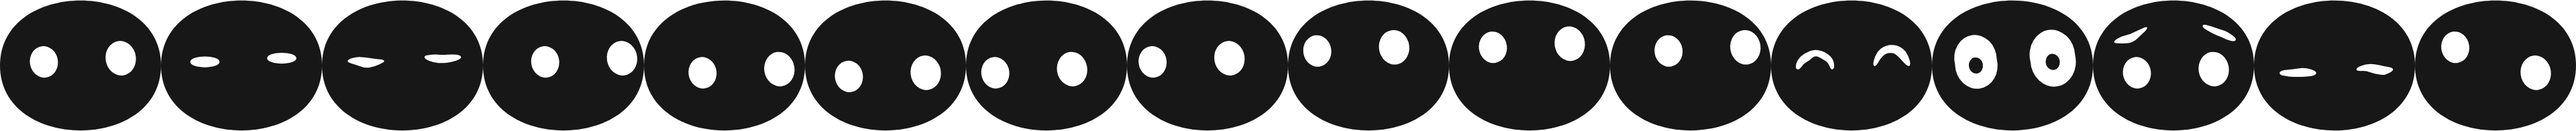
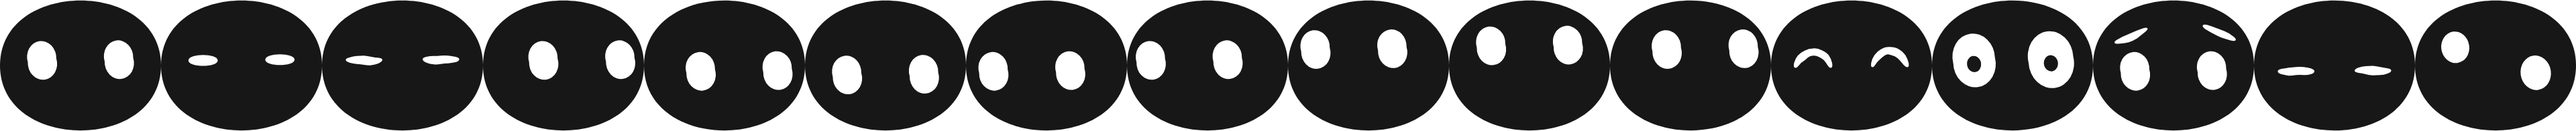
프로도 그림을 다듬음: 펜 떨림 세기를 조절하고 입구 테·발 모양을 새로 그려 표정·먹기 스프라이트를 다시 만들고 소프트 3D 시안을 남김: 캐릭터를 더 깔끔하게 보이게 하려고

diff --git a/apps/room/src/art/duct.ts b/apps/room/src/art/duct.ts
@@ -102,7 +102,7 @@ const wave = (t: number, k: number, seed: number) => Math.sin(2 * Math.PI * k * 
 
 // 펜 하나. 그을 때마다 다음 씨앗을 써서 선마다 다르게, 그러나 언제나 같게 흔들립니다. 파일 종이(ObjectShape)도 같은 펜으로 그려요.
 // step은 선을 따라 점을 찍는 간격이에요. 작게 그리는 종이는 화면 1px보다 촘촘한 점이 보이지 않으니 넓게 찍어요.
-export function makePen(start: number, step = 2.6) {
+export function makePen(start: number, step = 2.6, roughness = 1) {
   let count = start;
   return (d: string, w: number, tone: DuctTone = "ink"): DuctPiece[] =>
     flatten(d).map(({ pts, closed }) => {
@@ -123,8 +123,8 @@ export function makePen(start: number, step = 2.6) {
         const nx = -dy / m;
         const ny = dx / m;
         const t = i / (closed ? n : n - 1);
-        const shift = wave(t, k1, seed) * 0.5;
-        let half = (w / 2) * (1 + wave(t, k2, seed + 11) * 0.26);
+        const shift = wave(t, k1, seed) * 0.5 * roughness;
+        let half = (w / 2) * (1 + wave(t, k2, seed + 11) * 0.26 * roughness);
         if (!closed) half *= Math.min(1, 0.42 + (Math.min(t, 1 - t) * total) / 5);
         L.push([p[0] + nx * (shift + half), p[1] + ny * (shift + half)]);
         R.push([p[0] + nx * (shift - half), p[1] + ny * (shift - half)]);
@@ -136,6 +136,30 @@ export function makePen(start: number, step = 2.6) {
 const oval = ([x, y, rx, ry]: readonly number[]) => `M${x - rx} ${y}C${x - rx} ${y - ry * 1.32} ${x + rx} ${y - ry * 1.32} ${x + rx} ${y}C${x + rx} ${y + ry * 1.32} ${x - rx} ${y + ry * 1.32} ${x - rx} ${y}Z`;
 const poly = (pts: Pt[]) => `M${pts.map((p) => `${f1(p[0])} ${f1(p[1])}`).join("L")}Z`;
 const open = (pts: Pt[]) => `M${pts.map((p) => `${f1(p[0])} ${f1(p[1])}`).join("L")}`;
+
+function collar([x, y, rx, ry]: Spec["head"]): string {
+  const pt = (dx: number, dy: number) => `${f1(x + dx * rx)} ${f1(y + dy * ry)}`;
+  return `M${pt(-1, 0.03)}C${pt(-1, -0.53)} ${pt(-0.53, -1)} ${pt(0.03, -1)}`
+    + `C${pt(0.6, -1)} ${pt(1, -0.58)} ${pt(1, -0.04)}`
+    + `C${pt(1, 0.53)} ${pt(0.54, 1)} ${pt(-0.06, 1)}`
+    + `C${pt(-0.63, 1)} ${pt(-1, 0.59)} ${pt(-1, 0.03)}Z`;
+}
+
+function footAt(x: number): string {
+  return `M${x - 19} 106L${x + 17} 106`
+    + `C${x + 20} 106 ${x + 21} 107 ${x + 22} 109L${x + 23} 111`
+    + `C${x + 24} 113 ${x + 22} 114 ${x + 20} 114L${x - 22} 114`
+    + `C${x - 24} 114 ${x - 26} 113 ${x - 25} 111L${x - 24} 109`
+    + `C${x - 23} 107 ${x - 22} 106 ${x - 19} 106Z`;
+}
+
+// 주름선을 받침 쪽으로 살짝 휘어 관의 둥근 단면을 보여 줘요.
+function ribSeam([lx, ly]: Pt, [rx, ry]: Pt): string {
+  const dx = rx - lx;
+  const dy = ry - ly;
+  const control = (t: number) => `${f1(lx + dx * t + dy * 0.08)} ${f1(ly + dy * t - dx * 0.08)}`;
+  return `M${f1(lx)} ${f1(ly)}C${control(1 / 3)} ${control(2 / 3)} ${f1(rx)} ${f1(ry)}`;
+}
 
 const tilt = (-8 * Math.PI) / 180;
 function dot(x: number, y: number, r: number, tone: DuctTone = "ink"): DuctPiece {
@@ -156,7 +180,8 @@ function tube(spec: Spec) {
     const dy = b[1] - a[1];
     const m = Math.hypot(dx, dy) || 1;
     const swell = spec.bulge ? spec.bulge[1] * Math.exp(-(((i / (out.length - 1) - spec.bulge[0]) / 0.1) ** 2)) : 0;
-    const half = spec.width / 2 + spec.scallop * Math.abs(Math.sin((Math.PI * i) / spec.rib)) + swell;
+    const fold = Math.sin((Math.PI * i) / spec.rib) ** 2;
+    const half = spec.width / 2 + spec.scallop * fold + swell;
     // 꺾이는 안쪽은 굵기보다 반지름이 작으면 선이 되돌아가 엉킵니다. 되돌아가는 점은 앞 점에 붙여 접습니다.
     const unfold = (side: Pt[], point: Pt): Pt => {
       const last = side[side.length - 1];
@@ -180,17 +205,19 @@ function layerColorAt(layers: DuctLayer[], at: number): string | null {
 const armEnd = (d: string): Pt => (d.match(/-?\d*\.?\d+/g) ?? []).slice(-2).map(Number) as Pt;
 
 function draw(spec: Spec, { w, layers = [], moving = false, seed = 1, live = false, flow = false }: { w: number; layers?: DuctLayer[]; moving?: boolean; seed?: number; live?: boolean; flow?: boolean }): DuctDrawing["items"] {
-  const pen = makePen(seed);
+  const pen = makePen(seed, 2.2, 0.48);
   const { L, R, body } = tube(spec);
+  const rim = collar(spec.head);
+  const shell = [{ d: rim, tone: "white" as const }, ...pen(rim, w * 0.9)];
   const items: DuctDrawing["items"] = [];
   // 팔은 관 뒤에서 나오고, 끝에 작은 손을 답니다.
   spec.arms.forEach((arm, at) => {
     const [x, y] = armEnd(arm);
-    const pieces = [...pen(arm, w), dot(x, y, Math.max(2.4, w * 0.8))];
+    const pieces = [...pen(arm, w * 0.78), dot(x, y, Math.max(2.1, w * 0.68))];
     if (live) items.push({ part: at === 0 ? "armL" : "armR", parts: pieces });
     else items.push(...pieces);
   });
-  items.push({ d: spec.foot, tone: "foot" }, ...pen(spec.foot, w));
+  items.push({ d: spec.foot, tone: "foot" }, ...pen(spec.foot, w * 0.83));
   const last = L.length - 1;
   if (moving) {
     // 주름 한 칸씩 부풀어 파일이 관을 지나가는 것처럼 보입니다.
@@ -200,7 +227,7 @@ function draw(spec: Spec, { w, layers = [], moving = false, seed = 1, live = fal
       const right = R.slice(i, end + 1);
       const color = layerColorAt(layers, (i + end) / 2 / last);
       const fill = poly([...left, ...[...right].reverse()]);
-      items.push({ rib, parts: [color && layers.length ? { d: fill, tone: "layer", color } : { d: fill, tone: "white" }, ...pen(open(left), w), ...pen(open(right), w), ...pen(open([L[end], R[end]]), w * 0.62)] });
+      items.push({ rib, parts: [color && layers.length ? { d: fill, tone: "layer", color } : { d: fill, tone: "white" }, ...pen(open(left), w * 0.9), ...pen(open(right), w * 0.9), ...pen(open([L[end], R[end]]), w * 0.55)] });
     }
   } else {
     items.push({ d: body, tone: "white" });
@@ -215,17 +242,17 @@ function draw(spec: Spec, { w, layers = [], moving = false, seed = 1, live = fal
       if (to > from) items.push({ d: poly([...L.slice(from, Math.min(last, to + 1) + 1), ...R.slice(from, Math.min(last, to + 1) + 1).reverse()]), tone: "layer", color, i, n: layers.length });
       from = to;
     });
-    items.push(...pen(body, w));
-    for (let i = spec.rib; i < L.length - 2; i += spec.rib) items.push(...pen(open([L[i], R[i]]), w * 0.62));
+    items.push(...pen(body, w * 0.9));
+    for (let i = spec.rib; i < L.length - 2; i += spec.rib) items.push(...pen(ribSeam(L[i], R[i]), w * 0.55));
   }
   // 살아 있는 그림의 얼굴은 표정 시트가 맡습니다. 머리는 끄덕이고 갸웃하게 한 덩어리로 묶어요.
   if (live) {
-    items.push({ part: "head", parts: [{ d: oval(spec.head), tone: "white" }, ...pen(oval(spec.head), w), { face: spec.inner }] });
+    items.push({ part: "head", parts: [...shell, { face: spec.inner }] });
     for (const tick of spec.ticks ?? []) items.push(...pen(tick, w * 0.8));
     if (spec.paperAt) items.push(paperGroup(spec.paperAt, w, pen));
     return items;
   }
-  items.push({ d: oval(spec.head), tone: "white" }, ...pen(oval(spec.head), w), { d: oval(spec.inner), tone: "ink" });
+  items.push(...shell, { d: oval(spec.inner), tone: "ink" });
   const [a, b] = spec.eyes;
   const r = Math.max(3.4, w) * (spec.eyeScale ?? 1);
   if (spec.face === "happy") {
@@ -262,16 +289,16 @@ const boardBox = `${board.x} ${board.y} ${board.w} ${board.h}`;
 
 // ── 플로팅 창(메뉴 막대 작은 창)의 자세 7가지 ──
 // 2026-11-17: 한쪽으로 휘지 않고 받침 가운데(x 60)에서 위로 곧게 서요(요청: 방향을 띠며 휘는 게 별로라서). 자세는 팔·머리 높이·종이로만 달라요.
-const stand = { line: "M60 108C60 90 60 70 60 50", width: 34, rib: 6, scallop: 2.2, head: [60, 36, 29, 25], inner: [60, 36, 22, 18], eyes: [[50, 35], [71, 34]], foot: "M36 106L82 106L84 114L34 114Z" } as const;
+const stand = { line: "M60 108C60 90 60 70 60 50", width: 34, rib: 6, scallop: 2.2, head: [60, 36, 29, 25], inner: [60, 36, 22, 18], eyes: [[50, 35], [71, 34]], foot: footAt(60) } as const;
 const leftArm = "M46 82C38 82 32 86 29 93";
 const poses: Record<DuctPose, Spec> = {
   idle: { ...stand, head: [...stand.head], inner: [...stand.inner], eyes: [[50, 35], [71, 34]], arms: [leftArm, "M74 80C82 79 89 82 94 89"] },
   watch: { ...stand, head: [...stand.head], inner: [...stand.inner], eyes: [[55, 35], [76, 34]], arms: [leftArm, "M74 80C82 79 89 82 94 89"] },
   offer: { ...stand, head: [...stand.head], inner: [...stand.inner], eyes: [[52, 35], [73, 34]], arms: [leftArm, "M74 80C84 81 94 82 102 80"], paperAt: [112, 78, 10] },
   move: { ...stand, head: [...stand.head], inner: [...stand.inner], eyes: [[50, 34], [71, 33]], arms: [leftArm, "M74 80C86 78 96 72 102 64"], paperAt: [104, 54, -6] },
-  done: { ...stand, line: "M60 108C60 90 60 66 60 44", head: [60, 30, 29, 25], inner: [60, 30, 22, 18], eyes: [[50, 30], [71, 29]], face: "happy", foot: "M36 106L82 106L84 114L34 114Z", ticks: ["M20 14L12 8", "M102 12L110 5"], arms: ["M47 78C36 72 30 62 28 50", "M78 76C90 70 98 60 100 48"] },
+  done: { ...stand, line: "M60 108C60 90 60 66 60 44", head: [60, 30, 29, 25], inner: [60, 30, 22, 18], eyes: [[50, 30], [71, 29]], face: "happy", foot: footAt(60), ticks: ["M20 14L12 8", "M102 12L110 5"], arms: ["M47 78C36 72 30 62 28 50", "M78 76C90 70 98 60 100 48"] },
   rest: { ...stand, line: "M60 108C60 102 60 96 60 90", rib: 3, head: [60, 78, 29, 24], inner: [60, 78, 22, 17], eyes: [[50, 78], [71, 77]], face: "closed", arms: ["M46 100C40 100 34 102 30 107", "M74 100C80 100 86 102 90 107"] },
-  shock: { ...stand, line: "M60 108C60 90 60 66 60 46", head: [60, 32, 27, 23], inner: [60, 32, 20, 16], eyes: [[52, 31], [69, 30]], face: "wide", foot: "M36 106L82 106L84 114L34 114Z", arms: ["M44 76C34 70 26 62 20 62", "M76 78C88 72 98 62 104 50"], ticks: ["M92 18L100 12", "M96 34L106 32"] },
+  shock: { ...stand, line: "M60 108C60 90 60 66 60 46", head: [60, 32, 27, 23], inner: [60, 32, 20, 16], eyes: [[52, 31], [69, 30]], face: "wide", foot: footAt(60), arms: ["M44 76C34 70 26 62 20 62", "M76 78C88 72 98 62 104 50"], ticks: ["M92 18L100 12", "M96 34L106 32"] },
 };
 
 export function drawPose(pose: DuctPose, { px, layers, live, flow }: { px: number; layers?: DuctLayer[]; live?: boolean; flow?: boolean }): DuctDrawing {
@@ -318,9 +345,9 @@ export function drawEatFrame(frame: number, px: number): DuctDrawing {
 }
 
 // ── 표정 시트(art/duct-faces.png)의 프레임. 모든 프로도가 한 장을 같이 씁니다. 몸은 방마다 모양과 색이 달라 코드로 그려요. ──
-const faceEyes: [Pt, Pt] = [[-10, -1], [11, -2]];
+const faceEyes: [Pt, Pt] = [[-10.5, -1.4], [10.5, -1.6]];
 const faceOval = "M-22 0C-22 -23.8 22 -23.8 22 0C22 23.8 -22 23.8 -22 0Z";
-const lookBy = (dx: number, dy: number): DuctPiece[] => faceEyes.map(([x, y], at) => dot(x + dx, y + dy, at ? 4.1 : 3.8, "white"));
+const lookBy = (dx: number, dy: number): DuctPiece[] => faceEyes.map(([x, y]) => dot(x + dx, y + dy, 3.95, "white"));
 const lidBy = (dx: number, dy: number): ((pen: ReturnType<typeof makePen>) => DuctPiece[]) => (pen) => faceEyes.flatMap(([x, y]) => pen(`M${x - 5 + dx} ${y + dy}L${x + 5 + dx} ${y + dy}`, 2.4, "white"));
 const faceDraw = {
   base: () => lookBy(0, 0),
@@ -345,7 +372,7 @@ export const faceFrames = Object.keys(faceDraw) as FaceExpr[];
 export const faceCell = { width: 240, height: 196 };
 
 export function drawFaceFrame(frame: number): DuctDrawing {
-  const pen = makePen(frame + 1);
+  const pen = makePen(frame + 1, 2.2, 0.48);
   return { viewBox: "-22 -18 44 36", items: [{ d: faceOval, tone: "ink" }, ...faceDraw[faceFrames[frame]](pen)] };
 }
 
@@ -404,7 +431,7 @@ function roomSpec(shape: number, length: number): Spec {
   const ry = rx * 0.86;
   const spec: Spec = { points, width: 34 - 8 * level, rib: 6, scallop: 2.2, head: [x, y, rx, ry], inner: [x, y, rx - 7, ry - 7], eyes: [[x - 10, y - 1], [x + 11, y - 2]], foot: "", arms: [] };
   const base = points[0][0];
-  spec.foot = `M${base - 24} 106L${base + 22} 106L${base + 24} 114L${base - 26} 114Z`;
+  spec.foot = footAt(base);
   // 팔은 받침에서 일정한 높이에 답니다. 관이 짧으면 가운데쯤이에요.
   const { L, R } = tube(spec);
   const at = Math.min(Math.round(L.length / 2), 18);
@@ -467,7 +494,7 @@ function stackSpec(lengths: number[]) {
   const y = end[1] + ((end[1] - back[1]) / span) * 8;
   const rx = 27;
   const ry = rx * 0.86;
-  const spec: Spec = { points, width: 30, rib: 6, scallop: 2.2, head: [x, y, rx, ry], inner: [x, y, rx - 7, ry - 7], eyes: [[x - 10, y - 1], [x + 11, y - 2]], foot: `M${stackX - 24} 106L${stackX + 22} 106L${stackX + 24} 114L${stackX - 26} 114Z`, arms: [] };
+  const spec: Spec = { points, width: 30, rib: 6, scallop: 2.2, head: [x, y, rx, ry], inner: [x, y, rx - 7, ry - 7], eyes: [[x - 10, y - 1], [x + 11, y - 2]], foot: footAt(stackX), arms: [] };
   const { L, R } = tube(spec);
   const armAt = Math.min(Math.round(L.length / 2), 12);
   const center: Pt = [(L[armAt][0] + R[armAt][0]) / 2, (L[armAt][1] + R[armAt][1]) / 2];
